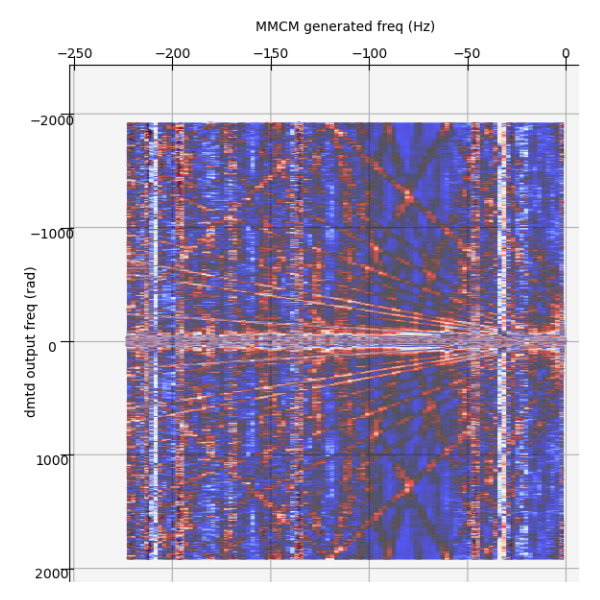
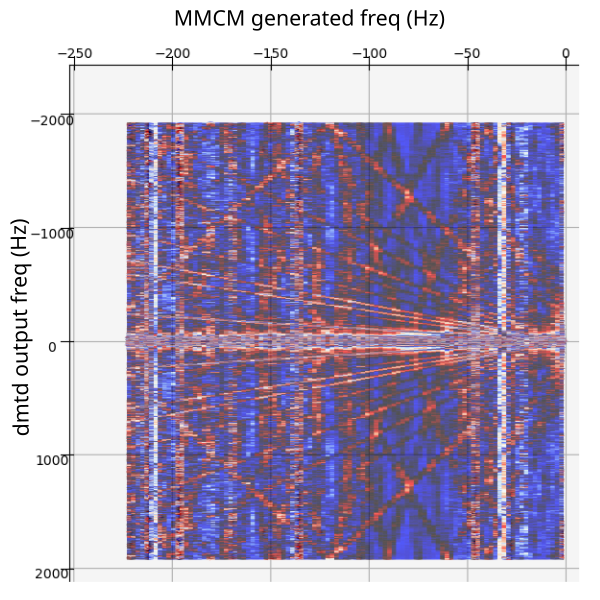
fixes

Changed region(s): [[0.27, 0.0, 0.75, 0.06], [0.0, 0.36, 0.06, 0.72]]

diff --git a/26_CERN_Workshop/slides.tex b/26_CERN_Workshop/slides.tex
@@ -235,17 +235,17 @@ DDMTD output phase noise for different beat frequencies:
 \begin{frame}[fragile]\frametitle{Noise induced by MMCM phase shifts}
 \begin{minipage}{.49\linewidth}
 \includegraphics[width=\linewidth]{dmtd_spurs_by_mmcm_freq.png}
-Spectrum of the DDMTD output in the M2SDR depending on the MMCM generated frequency offset.
 \end{minipage}
 \begin{minipage}{.49\linewidth}
-\end{minipage}
-
 \begin{itemize}
 	\item MMCM phase shifts produce phase noise spurs
 	\item These spurs offsets from 62.5~MHz are proportionnal to the offset frequency generated by the phase shifts
 	\item Since their positions are predictable, could they be selectively filtered ?
 	\item Else, can we use less phase shifting MMCMs ?
 \end{itemize}
+\end{minipage}
+
+Spectrum of the DDMTD output in the M2SDR depending on the MMCM generated frequency offset.
 
 \end{frame}
 